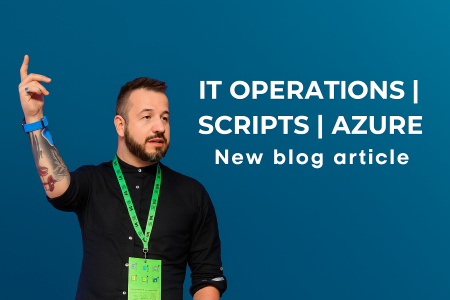
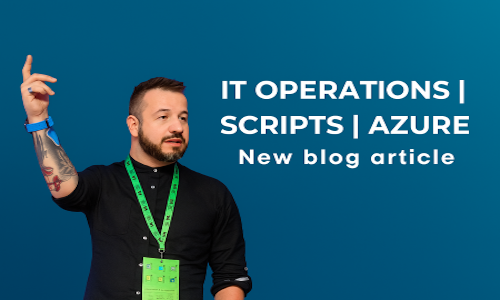
Update PNG teaser

diff --git a/_posts/2025-10-20-Mastering-Azure Networking-Best-Practices-for-Building-Scalable-Secure-Cloud-Infrastructure.md b/_posts/2025-10-20-Mastering-Azure Networking-Best-Practices-for-Building-Scalable-Secure-Cloud-Infrastructure.md
@@ -5,8 +5,8 @@ date: 2025-10-22
 excerpt: "Discover how to build a secure and scalable Azure network from the ground up. Learn how to start with a simple network for a small company and seamlessly extend it into an enterprise-grade architecture. Explore best practices for Azure Landing Zones, hub-and-spoke topology, private connectivity, DNS configuration, and network security to design flexible, future-ready cloud infrastructure in Microsoft Azure."
 toc: true
 header:
-  teaser: /assets/images/teaser-main-v1
-  og_image: /assets/images/teaser-main-v1
+  teaser: /assets/images/teaser-main-v3.png
+  og_image: /assets/images/teaser-main-v3.png
 categories:
  - Azure
 tags:

diff --git a/_posts/2025-07-30-Azure-Arc-Linux-Entra-logon.md b/_posts/2025-07-30-Azure-Arc-Linux-Entra-logon.md
@@ -5,8 +5,8 @@ date: 2025-07-30
 excerpt: "Azure Arc extends the power of Azure to your on-premises and multi-cloud environments. One great feature it enables is logging into Linux servers using Entra ID (formerly Azure AD). This provides centralized identity management, RBAC, and conditional access for your Linux infrastructure. In this post, I'll walk you through how to enable and use Entra ID to log in to a Linux server connected to Azure Arc."
 toc: true
 header:
-  teaser: /assets/images/teaser-main-v1
-  og_image: /assets/images/teaser-main-v1
+  teaser: /assets/images/teaser-main-v1.png
+  og_image: /assets/images/teaser-main-v1.png
 categories:
  - Azure
 tags:

diff --git a/_posts/2024-12-02-Azure-SSH-admin-access-revoke.md b/_posts/2024-12-02-Azure-SSH-admin-access-revoke.md
@@ -5,8 +5,8 @@ date: 2024-12-02
 excerpt: "In this post, you’ll learn how to securely revoke access to your Azure Virtual Machines by replacing compromised or outdated SSH keys. Whether you’re responding to a potential security breach or performing routine key rotation, this step-by-step guide will walk you through identifying the affected keys, removing them from your VM, and safely adding new ones."
 toc: true
 header:
-  teaser: /assets/images/teaser-main-v1
-  og_image: /assets/images/teaser-main-v1
+  teaser: /assets/images/teaser-main-v1.png
+  og_image: /assets/images/teaser-main-v1.png
 categories:
  - Azure
 tags:

diff --git a/_posts/2025-08-11-Bicep-Graph-Extension-ALZ-RBAC.md b/_posts/2025-08-11-Bicep-Graph-Extension-ALZ-RBAC.md
@@ -7,8 +7,8 @@ While you can configure them manually in the Azure Portal, Infrastructure as Cod
 With Bicep and the Microsoft Graph extension, we can define security groups and assign Azure roles programmatically—integrating identity management directly into our landing zone deployment workflows. "
 toc: true
 header:
-  teaser: /assets/images/teaser-main-v1
-  og_image: /assets/images/teaser-main-v1
+  teaser: /assets/images/teaser-main-v1.png
+  og_image: /assets/images/teaser-main-v1.png
 categories:
  - Azure
 tags:

diff --git a/_posts/2025-08-01-Bicep-Graph-Extension.md b/_posts/2025-08-01-Bicep-Graph-Extension.md
@@ -5,8 +5,8 @@ date: 2025-08-01
 excerpt: "The Microsoft Entra (Graph) Bicep Extension allows you to provision and manage Microsoft Entra ID (formerly Azure AD) resources using Bicep, extending Infrastructure as Code beyond Azure resources into identity management."
 toc: true
 header:
-  teaser: /assets/images/teaser-main-v1
-  og_image: /assets/images/teaser-main-v1
+  teaser: /assets/images/teaser-main-v1.png
+  og_image: /assets/images/teaser-main-v1.png
 categories:
  - Azure
  - EntraID

diff --git a/_posts/2024-10-28-Azure-Storage-Account-object-replication-policy-multi-tenant.md b/_posts/2024-10-28-Azure-Storage-Account-object-replication-policy-multi-tenant.md
@@ -5,8 +5,8 @@ date: 2024-10-28
 excerpt: "Setup object replication policy for 10 to 1000 blobs between two storage account in different tenants."
 toc: true
 header:
-  teaser: /assets/images/teaser-main-v1
-  og_image: /assets/images/teaser-main-v1
+  teaser: /assets/images/teaser-main-v1.png
+  og_image: /assets/images/teaser-main-v1.png
 categories:
  - Azure
 tags:
